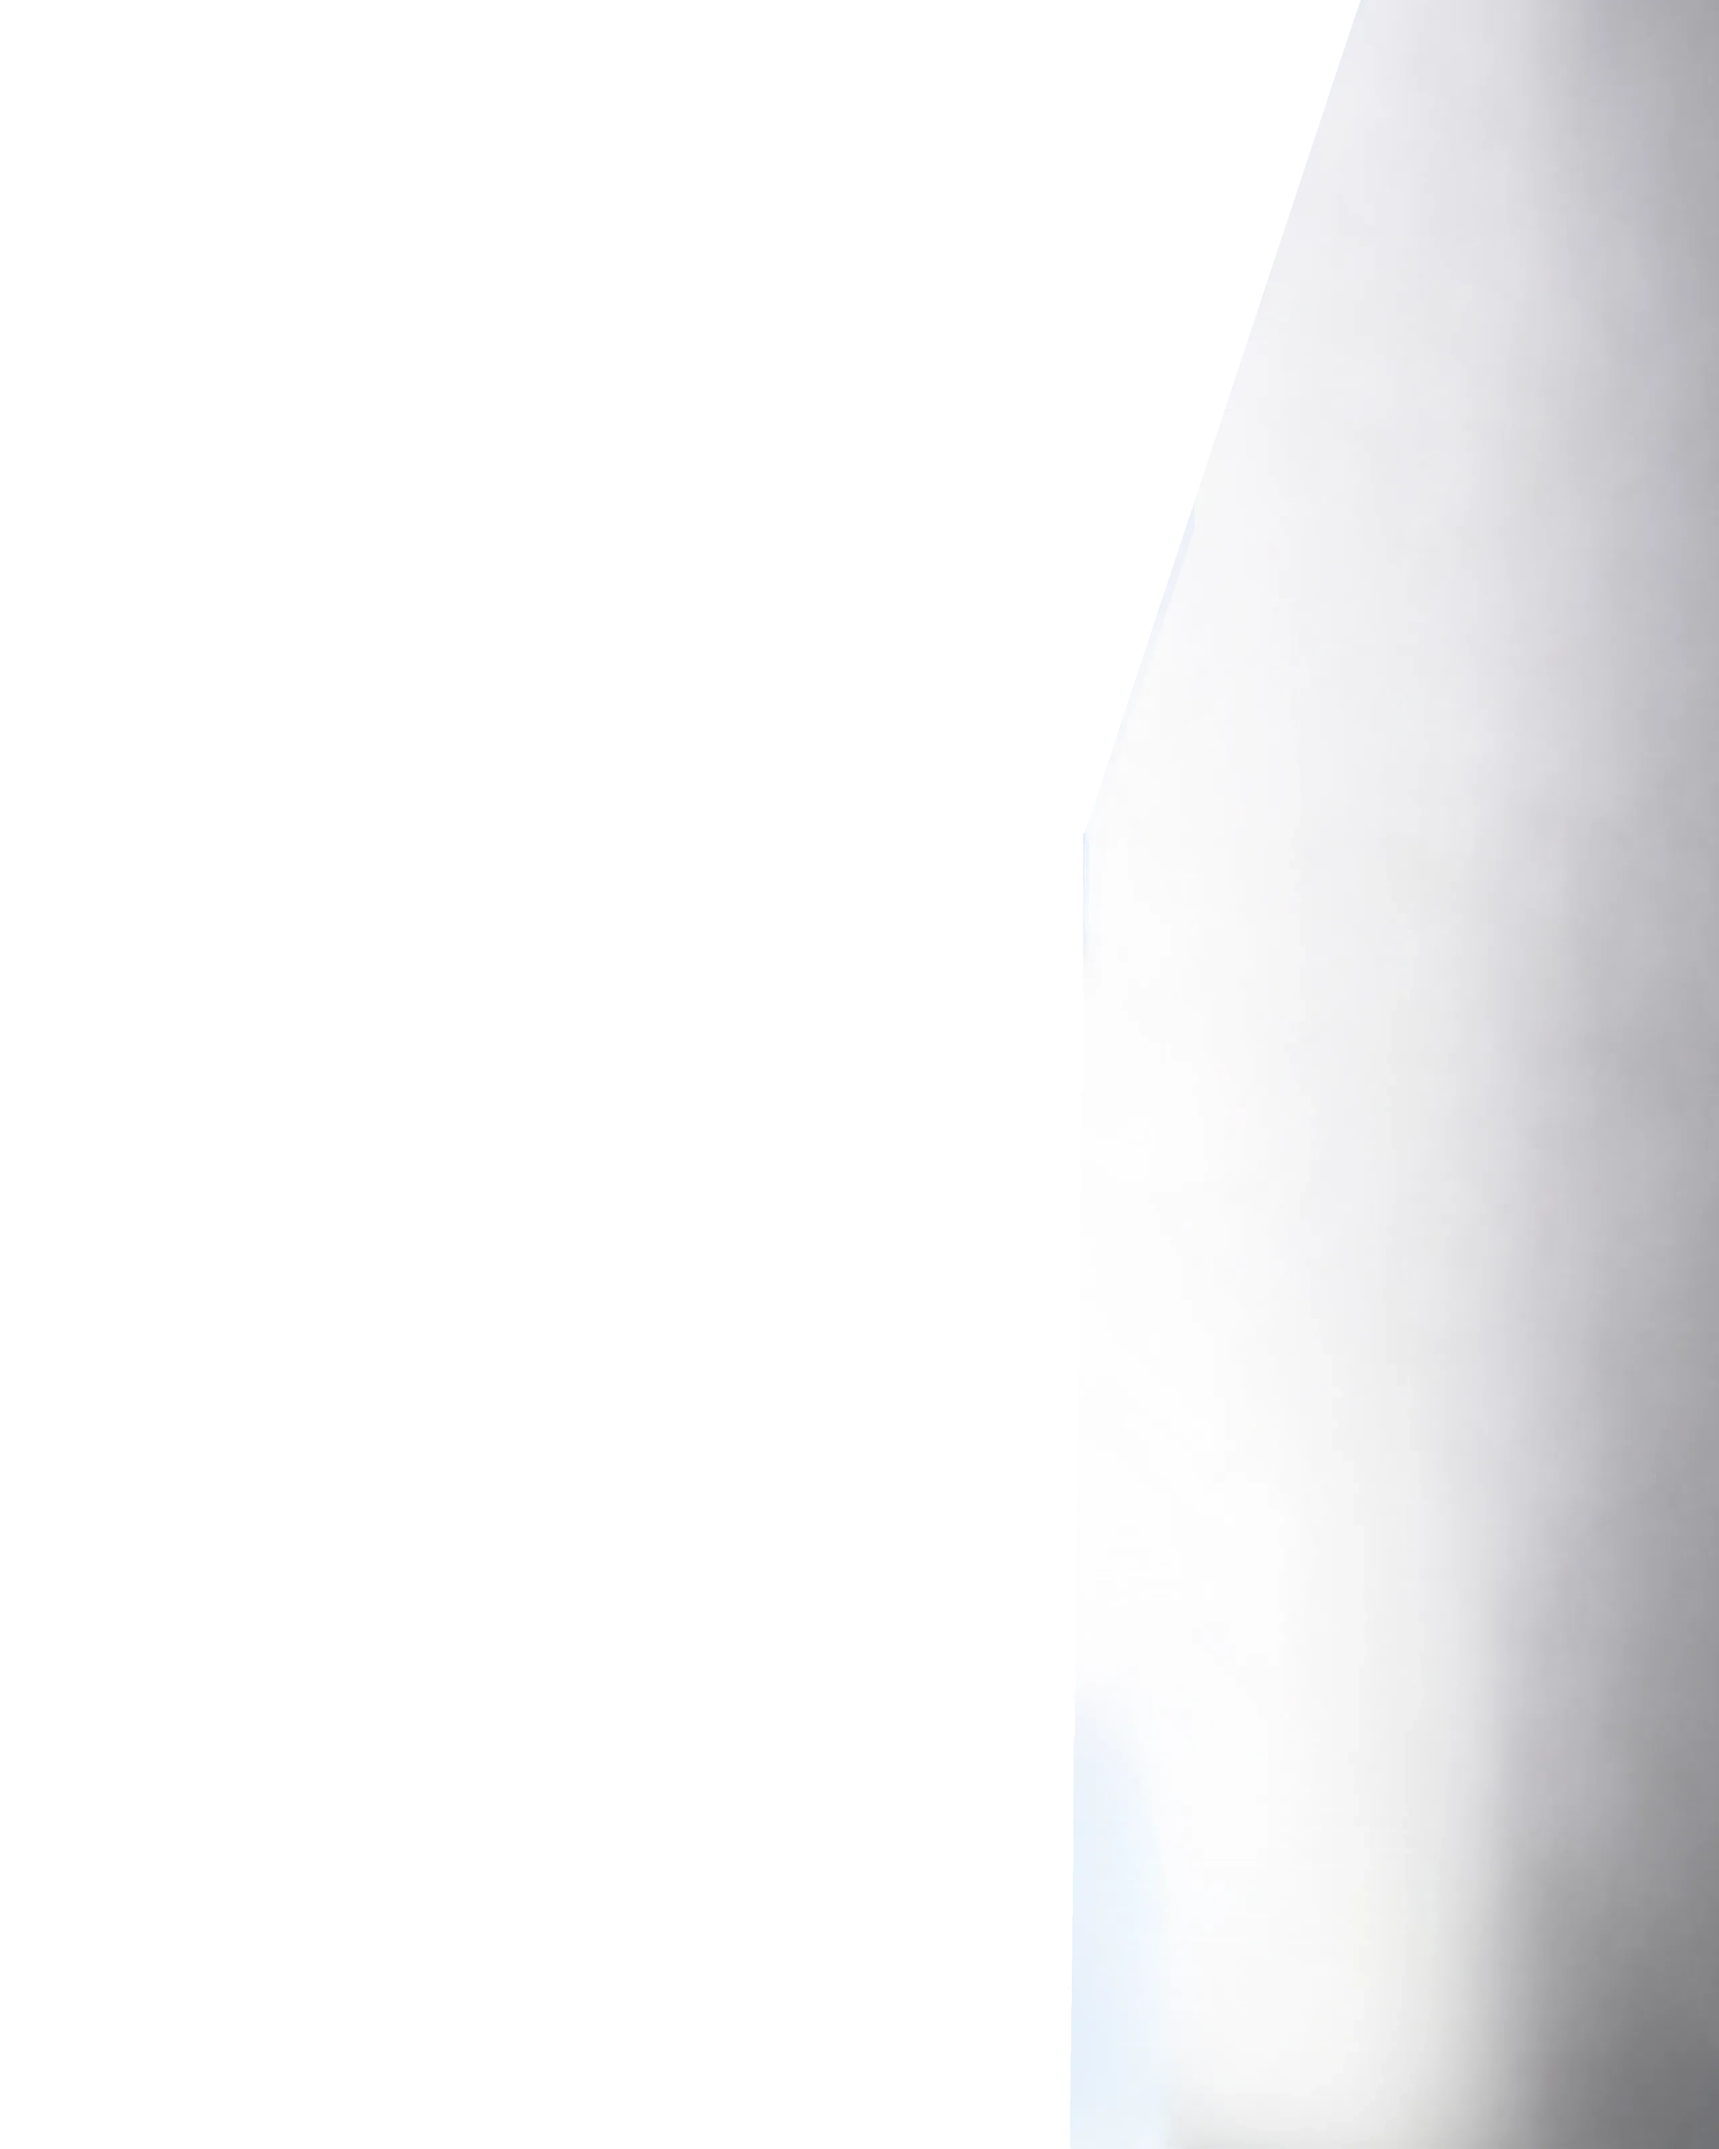
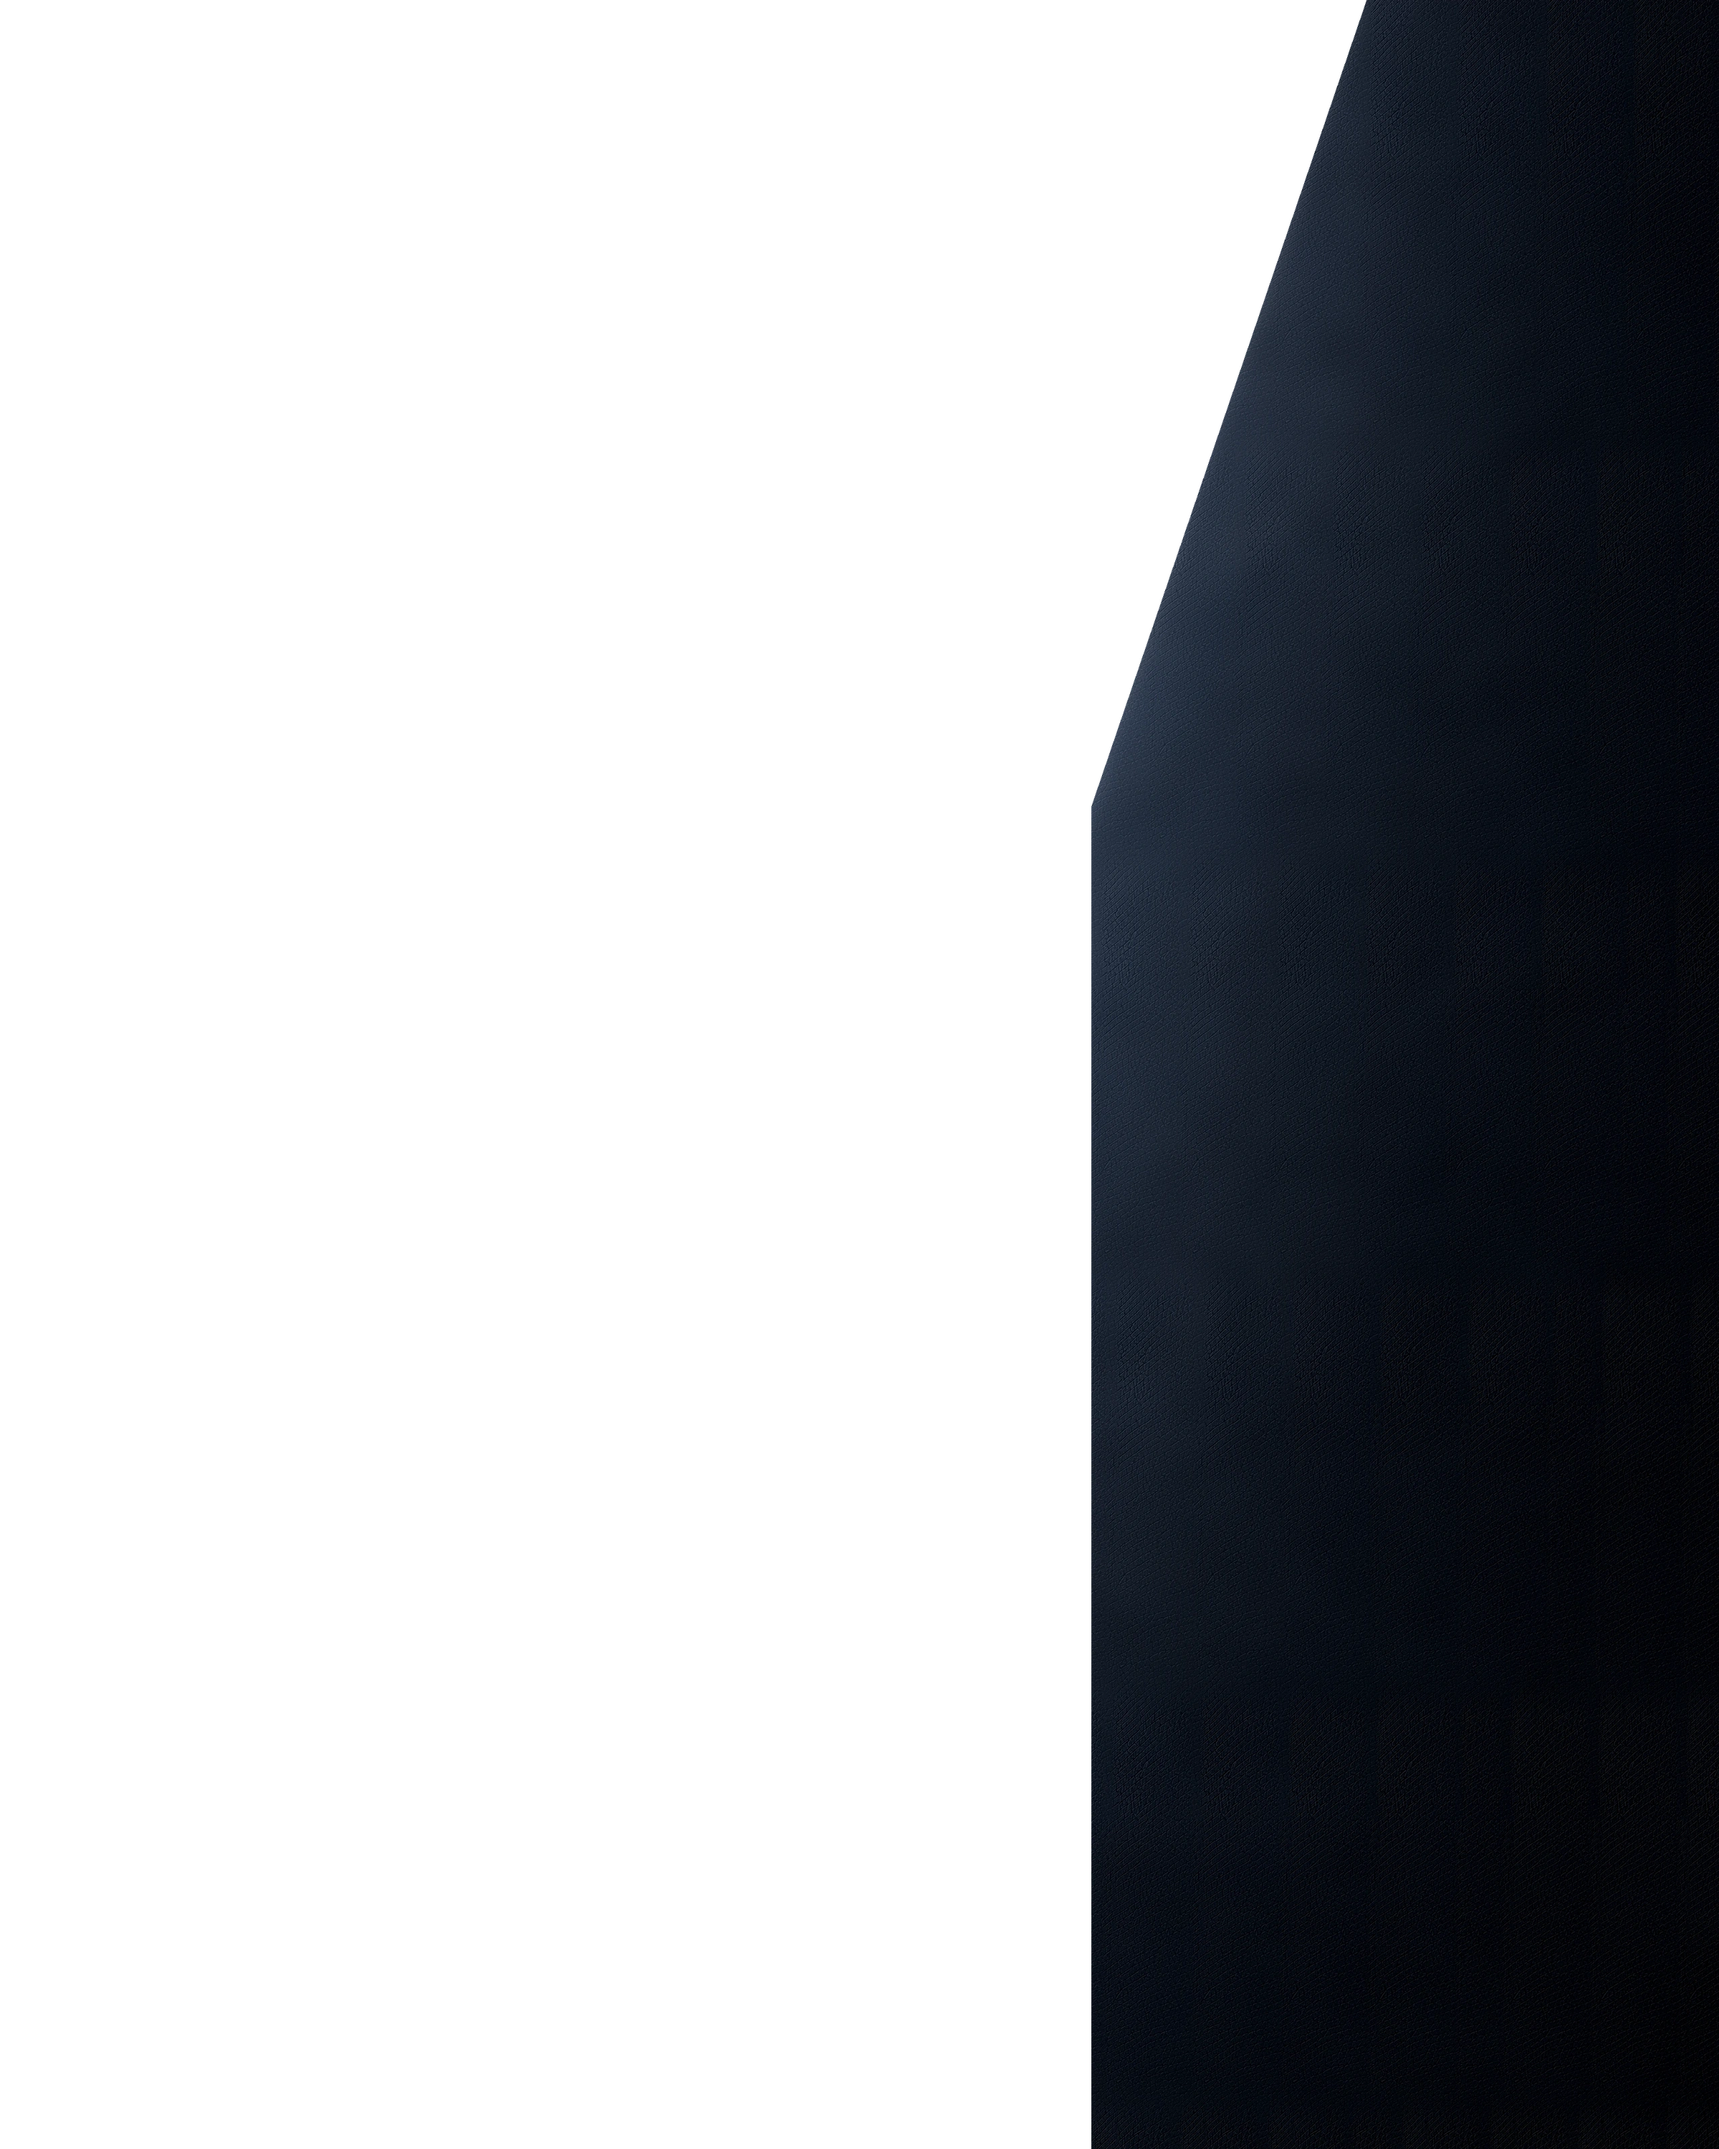
feat: refine dark wall texture and concept reveal

diff --git a/index.html b/index.html
@@ -12,7 +12,7 @@
     <link rel="stylesheet" href="fonts/fonts.css">
     <link rel="stylesheet" href="vendor/swiper/swiper-bundle.min.css">
     <link rel="stylesheet" href="css/main.css?v=39">
-    <link rel="stylesheet" href="css/style.css?v=251">
+    <link rel="stylesheet" href="css/style.css?v=252">
 </head>
 
 <body class="is-loading">
@@ -149,13 +149,13 @@
                 <img id="ship" src="images/ship.webp" alt="Playbook ship" fetchpriority="high" decoding="sync">
                 <div id="walls" aria-hidden="true">
                     <div id="wall-left-intro" class="wall-intro-panel">
-                        <img id="wall-left" class="wall-panel" src="images/wall-left-1280.webp"
-                            srcset="images/wall-left-1280.webp 1280w, images/wall-left-1920.webp 1920w, images/wall-left-2560.webp 2560w, images/wall-left.webp 3240w"
+                        <img id="wall-left" class="wall-panel" src="images/wall-left-1280.webp?v=dark-wall-18"
+                            srcset="images/wall-left-1280.webp?v=dark-wall-18 1280w, images/wall-left-1920.webp?v=dark-wall-18 1920w, images/wall-left-2560.webp?v=dark-wall-18 2560w, images/wall-left.webp?v=dark-wall-18 3240w"
                             sizes="100vw" alt="">
                     </div>
                     <div id="wall-right-intro" class="wall-intro-panel">
-                        <img id="wall-right" class="wall-panel" src="images/wall-right-1280.webp"
-                            srcset="images/wall-right-1280.webp 1280w, images/wall-right-1920.webp 1920w, images/wall-right-2560.webp 2560w, images/wall-right.webp 3240w"
+                        <img id="wall-right" class="wall-panel" src="images/wall-right-1280.webp?v=dark-wall-18"
+                            srcset="images/wall-right-1280.webp?v=dark-wall-18 1280w, images/wall-right-1920.webp?v=dark-wall-18 1920w, images/wall-right-2560.webp?v=dark-wall-18 2560w, images/wall-right.webp?v=dark-wall-18 3240w"
                             sizes="100vw" alt="">
                     </div>
                 </div>

diff --git a/css/style.css b/css/style.css
@@ -1604,6 +1604,8 @@ the timeline drops them under the ship once the walls have retreated. */
     --bt-concept-description-size: var(--section-topic-size);
     --bt-concept-description-line-height: var(--section-topic-line-height);
     --bt-concept-bg-opacity: 0.4;
+    --bt-concept-bg-reveal-delay: 520ms;
+    --bt-concept-bg-reveal-duration: 980ms;
 
     position: relative;
     /* min-height: 180vh; */
@@ -1625,6 +1627,7 @@ the timeline drops them under the ship once the walls have retreated. */
     background: url("../images/concept-room-bg.webp") center top / cover no-repeat;
     opacity: var(--bt-concept-bg-opacity);
     pointer-events: none;
+    transition: opacity var(--bt-concept-bg-reveal-duration) var(--ease-standard);
     /* Ramp is longer and slow-start (eased) rather than a straight 2-stop linear fade so a
        higher --bt-concept-bg-opacity still reads as a gradual reveal instead of a visible
        edge where it crosses the hero's white into #concept. */
@@ -1640,6 +1643,15 @@ the timeline drops them under the ship once the walls have retreated. */
             rgba(0, 0, 0, 0.12) 220px,
             rgba(0, 0, 0, 0.45) 320px,
             #000 460px);
+}
+
+#concept.is-awaiting-entry::before {
+    opacity: 0;
+}
+
+#concept.is-awaiting-entry.is-revealed::before {
+    opacity: var(--bt-concept-bg-opacity);
+    transition-delay: var(--bt-concept-bg-reveal-delay);
 }
 
 .concept__aurora {

diff --git a/tools/build-dark-walls.py b/tools/build-dark-walls.py
@@ -1,0 +1,243 @@
+#!/usr/bin/env python3
+"""Build dark wall panels with reduced-scale masonry from a visual reference."""
+
+from __future__ import annotations
+
+import argparse
+from pathlib import Path
+
+import numpy as np
+from PIL import Image, ImageFilter, ImageOps
+
+
+MASTER_WIDTH = 3240
+MASTER_HEIGHT = 4050
+RESPONSIVE_WIDTHS = (2560, 1920, 1280)
+TARGET_EDGE_FRACTIONS = {
+    "left": (0.205, 0.365),
+    "right": (0.795, 0.635),
+}
+TARGET_KNEE = 0.375
+LIGHTING_EDGE_FRACTIONS = {
+    "left": (0.188, 0.366),
+    "right": (0.778, 0.634),
+}
+
+
+def perspective_edge(width: int, height: int, side: str) -> np.ndarray:
+    top, vertical = TARGET_EDGE_FRACTIONS[side]
+    rows = np.linspace(0.0, 1.0, height)
+    edge = np.interp(rows, (0.0, TARGET_KNEE, 1.0), (top, vertical, vertical))
+    return np.rint(edge * width).astype(np.int32)
+
+
+def soft_noise(
+    rng: np.random.Generator,
+    sample_size: tuple[int, int],
+    blur_radius: float,
+) -> np.ndarray:
+    """Create broad, non-repeating variation without visible grain."""
+    sample_width, sample_height = sample_size
+    values = rng.normal(128.0, 24.0, (sample_height, sample_width))
+    image = Image.fromarray(np.clip(values, 0, 255).astype(np.uint8), "L")
+    image = image.filter(ImageFilter.GaussianBlur(radius=blur_radius))
+    image = image.resize((MASTER_WIDTH, MASTER_HEIGHT), Image.Resampling.BICUBIC)
+    return (np.asarray(image, dtype=np.float32) - 128.0) / 24.0
+
+
+def reduced_brick_detail(source: Image.Image, side: str) -> np.ndarray:
+    """Extract fine masonry relief from the reference without its lighting."""
+    crop_box = (
+        (20, 220, 230, 1320)
+        if side == "left"
+        else (900, 220, 1102, 1320)
+    )
+    crop = ImageOps.grayscale(source.convert("RGB").crop(crop_box))
+    crop = crop.resize(
+        (max(1, round(crop.width * 0.82)), max(1, round(crop.height * 0.82))),
+        Image.Resampling.LANCZOS,
+    )
+    blurred = crop.filter(ImageFilter.GaussianBlur(radius=4.0))
+    detail = np.asarray(crop, dtype=np.float32) - np.asarray(blurred, dtype=np.float32)
+    detail = np.clip(detail * 1.45, -24.0, 24.0)
+
+    # Offset each boundary to the middle, then cover it with another intact
+    # region from the same draft texture. The outer edges remain continuous.
+    detail = heal_texture_seam(detail, axis=1, radius=18)
+    detail -= detail.mean(dtype=np.float64)
+    detail = np.clip(detail, -24.0, 24.0)
+
+    repeats_x = (MASTER_WIDTH + detail.shape[1] - 1) // detail.shape[1]
+    strip = np.tile(detail, (1, repeats_x))[:, :MASTER_WIDTH]
+    return stack_texture_strips(strip, side)
+
+
+def heal_texture_seam(detail: np.ndarray, axis: int, radius: int) -> np.ndarray:
+    length = detail.shape[axis]
+    center = length // 2
+    radius = min(radius, center - 1)
+    shifted = np.roll(detail, center, axis=axis)
+    donor_axis = 1 - axis
+    donor = np.roll(detail, detail.shape[donor_axis] // 3, axis=donor_axis)
+
+    positions = np.arange(length, dtype=np.float32)
+    distance = np.abs(positions - center)
+    alpha = np.clip(1.0 - distance / radius, 0.0, 1.0)
+    alpha = 0.5 - 0.5 * np.cos(alpha * np.pi)
+    shape = [1, 1]
+    shape[axis] = length
+    alpha = alpha.reshape(shape)
+    return shifted * (1.0 - alpha) + donor * alpha
+
+
+def stack_texture_strips(strip: np.ndarray, side: str) -> np.ndarray:
+    """Stagger repeated source strips and crossfade their horizontal seams."""
+    result = np.zeros((MASTER_HEIGHT, MASTER_WIDTH), dtype=np.float32)
+    overlap = min(120, strip.shape[0] // 4)
+    step = strip.shape[0] - overlap
+    cursor = 0
+    index = 0
+    direction = 1 if side == "left" else -1
+
+    while cursor < MASTER_HEIGHT:
+        shift = direction * ((index * 53 + index * index * 17) % strip.shape[1])
+        block = np.roll(strip, shift, axis=1)
+        block_height = min(block.shape[0], MASTER_HEIGHT - cursor)
+        if cursor == 0:
+            result[:block_height] = block[:block_height]
+        else:
+            blend_height = min(overlap, block_height)
+            alpha = np.linspace(0.0, 1.0, blend_height, dtype=np.float32)[:, None]
+            alpha = 0.5 - 0.5 * np.cos(alpha * np.pi)
+            result[cursor : cursor + blend_height] = (
+                result[cursor : cursor + blend_height] * (1.0 - alpha)
+                + block[:blend_height] * alpha
+            )
+            result[cursor + blend_height : cursor + block_height] = block[
+                blend_height:block_height
+            ]
+        cursor += step
+        index += 1
+
+    return result
+
+
+def reference_lighting(
+    source: Image.Image,
+    side: str,
+    wall_depth: np.ndarray,
+) -> np.ndarray:
+    """Map the old wall's blue tone and directional light onto target geometry."""
+    source = source.convert("RGB").filter(ImageFilter.GaussianBlur(radius=10.0))
+    source_pixels = np.asarray(source, dtype=np.float32)
+    source_height, source_width = source_pixels.shape[:2]
+
+    rows = np.linspace(0.0, 1.0, MASTER_HEIGHT, dtype=np.float32)
+    top, vertical = LIGHTING_EDGE_FRACTIONS[side]
+    source_edge = np.interp(
+        rows,
+        (0.0, TARGET_KNEE, 1.0),
+        (top, vertical, vertical),
+    )[:, None]
+    edge_inset = 0.018
+    if side == "left":
+        source_x = wall_depth * (source_edge - edge_inset)
+    else:
+        source_x = 1.0 - wall_depth * (1.0 - source_edge - edge_inset)
+
+    source_x = np.clip(
+        np.rint(source_x * (source_width - 1)),
+        0,
+        source_width - 1,
+    ).astype(np.int32)
+    source_y = np.rint(rows * (source_height - 1)).astype(np.int32)[:, None]
+    return source_pixels[source_y, source_x]
+
+
+def build_wall(
+    side: str,
+    texture_source: Image.Image,
+    lighting_source: Image.Image,
+) -> Image.Image:
+    rng = np.random.default_rng(20261031 + (0 if side == "left" else 1))
+    broad_variation = soft_noise(rng, (54, 68), 2.4) * 7.0
+
+    x = np.linspace(0.0, 1.0, MASTER_WIDTH, dtype=np.float32)[None, :]
+    y = np.linspace(0.0, 1.0, MASTER_HEIGHT, dtype=np.float32)[:, None]
+    edge = perspective_edge(MASTER_WIDTH, MASTER_HEIGHT, side)
+    edge_fraction = edge[:, None] / MASTER_WIDTH
+    if side == "left":
+        wall_depth = np.clip(x / edge_fraction, 0.0, 1.0)
+    else:
+        wall_depth = np.clip((1.0 - x) / (1.0 - edge_fraction), 0.0, 1.0)
+
+    lighting = reference_lighting(lighting_source, side, wall_depth)
+    tone = broad_variation + reduced_brick_detail(texture_source, side)
+    pixels = np.clip(lighting + tone[:, :, None], 0, 255).astype(np.uint8)
+
+    alpha = np.zeros((MASTER_HEIGHT, MASTER_WIDTH), dtype=np.uint8)
+    columns = np.arange(MASTER_WIDTH)[None, :]
+    if side == "left":
+        alpha[columns < edge[:, None]] = 255
+    else:
+        alpha[columns >= edge[:, None]] = 255
+
+    result = Image.fromarray(pixels, "RGB")
+    result.putalpha(Image.fromarray(alpha, "L"))
+    return result
+
+
+def save_webp(image: Image.Image, path: Path, quality: int) -> None:
+    image.save(path, "WEBP", quality=quality, method=6)
+
+
+def build_side(
+    side: str,
+    texture_path: Path,
+    lighting_path: Path,
+    output_dir: Path,
+    desktop_only: bool,
+) -> None:
+    texture_source = Image.open(texture_path)
+    lighting_source = Image.open(lighting_path)
+    master = build_wall(side, texture_source, lighting_source)
+    save_webp(master, output_dir / f"wall-{side}.webp", quality=96)
+
+    if desktop_only:
+        return
+
+    for width in RESPONSIVE_WIDTHS:
+        height = round(width * MASTER_HEIGHT / MASTER_WIDTH)
+        resized = master.resize((width, height), Image.Resampling.LANCZOS)
+        save_webp(resized, output_dir / f"wall-{side}-{width}.webp", quality=95)
+
+
+def main() -> None:
+    parser = argparse.ArgumentParser()
+    parser.add_argument("--left-texture", type=Path, required=True)
+    parser.add_argument("--right-texture", type=Path, required=True)
+    parser.add_argument("--left-lighting", type=Path, required=True)
+    parser.add_argument("--right-lighting", type=Path, required=True)
+    parser.add_argument("--images-dir", type=Path, default=Path("images"))
+    parser.add_argument("--desktop-only", action="store_true")
+    args = parser.parse_args()
+
+    images_dir = args.images_dir.resolve()
+    build_side(
+        "left",
+        args.left_texture.resolve(),
+        args.left_lighting.resolve(),
+        images_dir,
+        args.desktop_only,
+    )
+    build_side(
+        "right",
+        args.right_texture.resolve(),
+        args.right_lighting.resolve(),
+        images_dir,
+        args.desktop_only,
+    )
+
+
+if __name__ == "__main__":
+    main()
